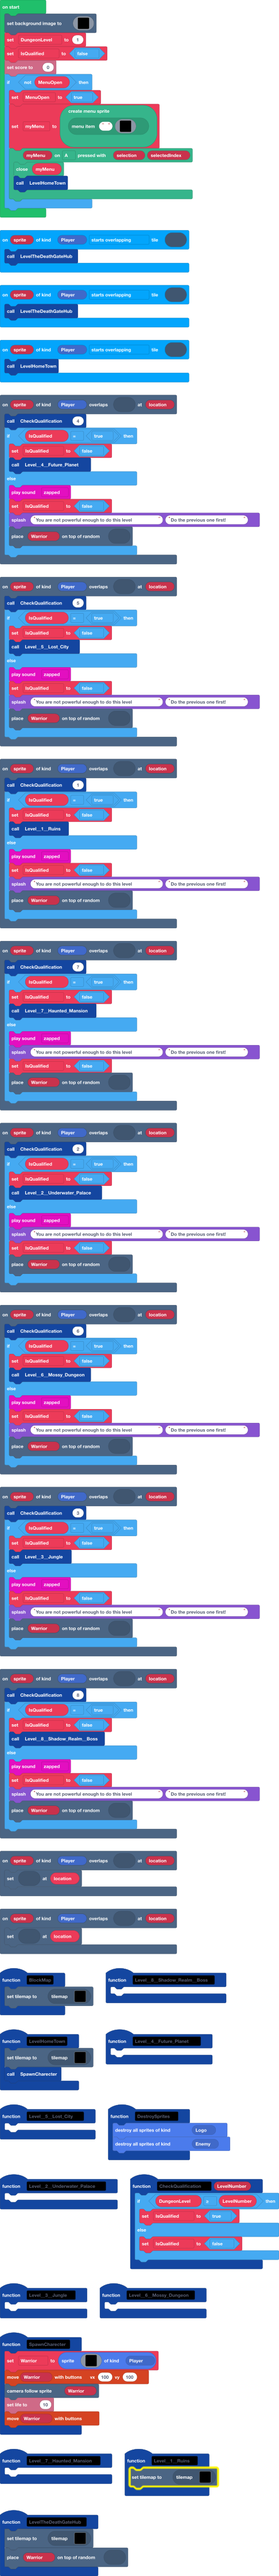
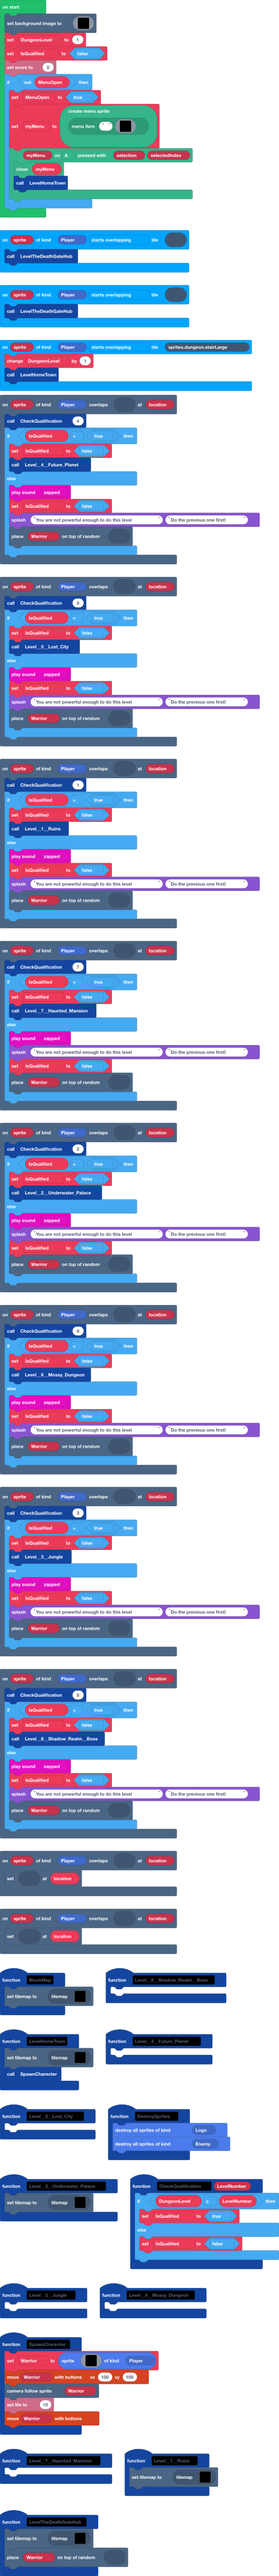
Update main.blocks, main.ts, tilemap.g.jres, tilemap.g.ts

Changed region(s): [[0.0, 0.1241, 0.8951, 0.1552], [0.0, 0.8379, 0.4321, 0.8689]]

diff --git a/tilemap.g.ts b/tilemap.g.ts
@@ -104,6 +104,20 @@ namespace myTiles {
     export const tile50 = image.ofBuffer(hex``);
     //% fixedInstance jres blockIdentity=images._tile
     export const tile51 = image.ofBuffer(hex``);
+    //% fixedInstance jres blockIdentity=images._tile
+    export const tile53 = image.ofBuffer(hex``);
+    //% fixedInstance jres blockIdentity=images._tile
+    export const tile52 = image.ofBuffer(hex``);
+    //% fixedInstance jres blockIdentity=images._tile
+    export const tile54 = image.ofBuffer(hex``);
+    //% fixedInstance jres blockIdentity=images._tile
+    export const tile58 = image.ofBuffer(hex``);
+    //% fixedInstance jres blockIdentity=images._tile
+    export const tile59 = image.ofBuffer(hex``);
+    //% fixedInstance jres blockIdentity=images._tile
+    export const tile60 = image.ofBuffer(hex``);
+    //% fixedInstance jres blockIdentity=images._tile
+    export const tile61 = image.ofBuffer(hex``);
 
     helpers._registerFactory("tilemap", function(name: string) {
         switch(helpers.stringTrim(name)) {
@@ -264,25 +278,6 @@ namespace myTiles {
 . . . . . . . . . . . . . . . . 
 . . . . . . . . . . . . . . . . 
 `, [myTiles.transparency16], TileScale.Sixteen);
-            case "level8":
[1 lines of base64/hex data omitted]
-. . . . . . . . . . . . . . . . 
-. . . . . . . . . . . . . . . . 
-. . . . . . . . . . . . . . . . 
-. . . . . . . . . . . . . . . . 
-. . . . . . . . . . . . . . . . 
-. . . . . . . . . . . . . . . . 
-. . . . . . . . . . . . . . . . 
-. . . . . . . . . . . . . . . . 
-. . . . . . . . . . . . . . . . 
-. . . . . . . . . . . . . . . . 
-. . . . . . . . . . . . . . . . 
-. . . . . . . . . . . . . . . . 
-. . . . . . . . . . . . . . . . 
-. . . . . . . . . . . . . . . . 
-. . . . . . . . . . . . . . . . 
-. . . . . . . . . . . . . . . . 
-`, [myTiles.transparency16,myTiles.tile13,myTiles.tile14,myTiles.tile15,myTiles.tile16,myTiles.tile17,myTiles.tile18,myTiles.tile19,myTiles.tile20,myTiles.tile21,myTiles.tile22,myTiles.tile23,myTiles.tile24,myTiles.tile25,myTiles.tile26,myTiles.tile27,myTiles.tile28,myTiles.tile29,myTiles.tile30], TileScale.Sixteen);
             case "level11":
             case "level11":return tiles.createTilemap(hex`1000100000000000000000000000000000000000000000000000000000000000000000000000000000000000000000000000000000000000000000000000000000000000000000000000000000000000000000000000000000000000000000000000000000000000000000000000000000000000000000000000000000000000000000000000000000000000000000000000000000000000000000000000000000000000000000000000000000000000000000000000000000000000000000000000000000000000000000000000000000000000000000000000000000000000000000000000000000000000000000000000000000000000000000000000000000000000`, img`
 . . . . . . . . . . . . . . . . 
@@ -478,6 +473,53 @@ namespace myTiles {
 . . . . . . . . . . . . . . . . 
 . . . . . . . . . . . . . . . . 
 `, [myTiles.transparency16], TileScale.Sixteen);
+            case "DungeonLevel2":
+            case "level20":return tiles.createTilemap(hex`1900190000000000000000000000000000000000000000000000000000000000000000000000000000000000000000000000000000000000000000000000000000000000000000000000000000000000000000000000000000000000000000000000000000000000000000000000000000000000000000000000000000000000000000000000000000000000000000000000000000000000000000000000000000000000000000000000000000000000000000000000000000000000000000000000000000000000000000000000000000000000000000000000000000000000000000000000000000000000000000000000000000000000000000000000000000000000000000000000000000000000000000000000000000000000000000000000000000000000000000000000000000000000000000000000000000000000000000000000000000000000000000000000000000000000000000000000000000000000000000000000000000000000000000000000000000000000000000000000000000000000000000000000000000000000000000000000000000000000000000000000000000000000000000000000000000000000000000000000000000000000000000000000000000000000000000000000000000000000000000000000000000000000000000000000000000000000000000000000000000000000000000000000000000000000000000000000000000000000000000000000000000000000000000000000000000000000000000000000000000000000000000000000000000000000000000000000000000000000000000000000000000000000000000000000000000000000000000000000000000`, img`
+.........................
+.........................
+.........................
+.........................
+.........................
+.........................
+.........................
+.........................
+.........................
+.........................
+.........................
+.........................
+.........................
+.........................
+.........................
+.........................
+.........................
+.........................
+.........................
+.........................
+.........................
+.........................
+.........................
+.........................
+.........................
+`, [myTiles.transparency16,myTiles.tile53,myTiles.tile54], TileScale.Sixteen);
+            case "level8":
[1 lines of base64/hex data omitted]
+. . . . . . . . . . . . . . . . 
+. . . . . . . . . . . . . . . . 
+. . . . . . . . . . . . . . . . 
+. . . . . . . . . . . . . . . . 
+. . . . . . . . . . . . . . . . 
+. . . . . . . . . . . . . . . . 
+. . . . . . . . . . . . . . . . 
+. . . . . . . . . . . . . . . . 
+. . . . . . . . . . . . . . . . 
+. . . . . . . . . . . . . . . . 
+. . . . . . . . . . . . . . . . 
+. . . . . . . . . . . . . . . . 
+. . . . . . . . . . . . . . . . 
+. . . . . . . . . . . . . . . . 
+. . . . . . . . . . . . . . . . 
+. . . . . . . . . . . . . . . . 
+`, [myTiles.transparency16,myTiles.tile13,myTiles.tile14,myTiles.tile15,myTiles.tile16,myTiles.tile17,myTiles.tile18,myTiles.tile19,myTiles.tile20,myTiles.tile21,myTiles.tile22,myTiles.tile23,myTiles.tile24,myTiles.tile25,myTiles.tile26,myTiles.tile27,myTiles.tile28,myTiles.tile29,myTiles.tile30,myTiles.tile53,myTiles.tile54,myTiles.tile52,myTiles.tile58,myTiles.tile59,myTiles.tile60,myTiles.tile61], TileScale.Sixteen);
         }
         return null;
     })
@@ -587,6 +629,20 @@ namespace myTiles {
             case "tile50":return tile50;
             case "myTile35":
             case "tile51":return tile51;
+            case "tiles_aquatic_dungeon_vert0":
+            case "tile53":return tile53;
+            case "tiles_aquatic_dungeon_side1":
+            case "tile52":return tile52;
+            case "tiles_aquatic_dungeon_hori":
+            case "tile54":return tile54;
+            case "tiles_aquatic_dungeon_side2":
+            case "tile58":return tile58;
+            case "tiles_aquatic_dungeon_side3":
+            case "tile59":return tile59;
+            case "tiles_aquatic_dungeon_side4":
+            case "tile60":return tile60;
+            case "myTile36":
+            case "tile61":return tile61;
         }
         return null;
     })

diff --git a/main.ts b/main.ts
@@ -90,7 +90,7 @@ function DestroySprites () {
     sprites.destroyAllSpritesOfKind(SpriteKind.Enemy)
 }
 function Level__2__Underwater_Palace () {
-	
+    tiles.setCurrentTilemap(tilemap`DungeonLevel2`)
 }
 function CheckQualification (LevelNumber: number) {
     if (DungeonLevel >= LevelNumber) {
@@ -178,6 +178,7 @@ scene.onOverlapTile(SpriteKind.Player, assets.tile`RuinsTile - 2 - Horizontal - 
     tiles.setTileAt(location, assets.tile`myTile16`)
 })
 events.tileEvent(SpriteKind.Player, sprites.dungeon.stairLarge, events.TileEvent.StartOverlapping, function (sprite) {
+    DungeonLevel += 1
     LevelHomeTown()
 })
 function Level__1__Ruins () {
